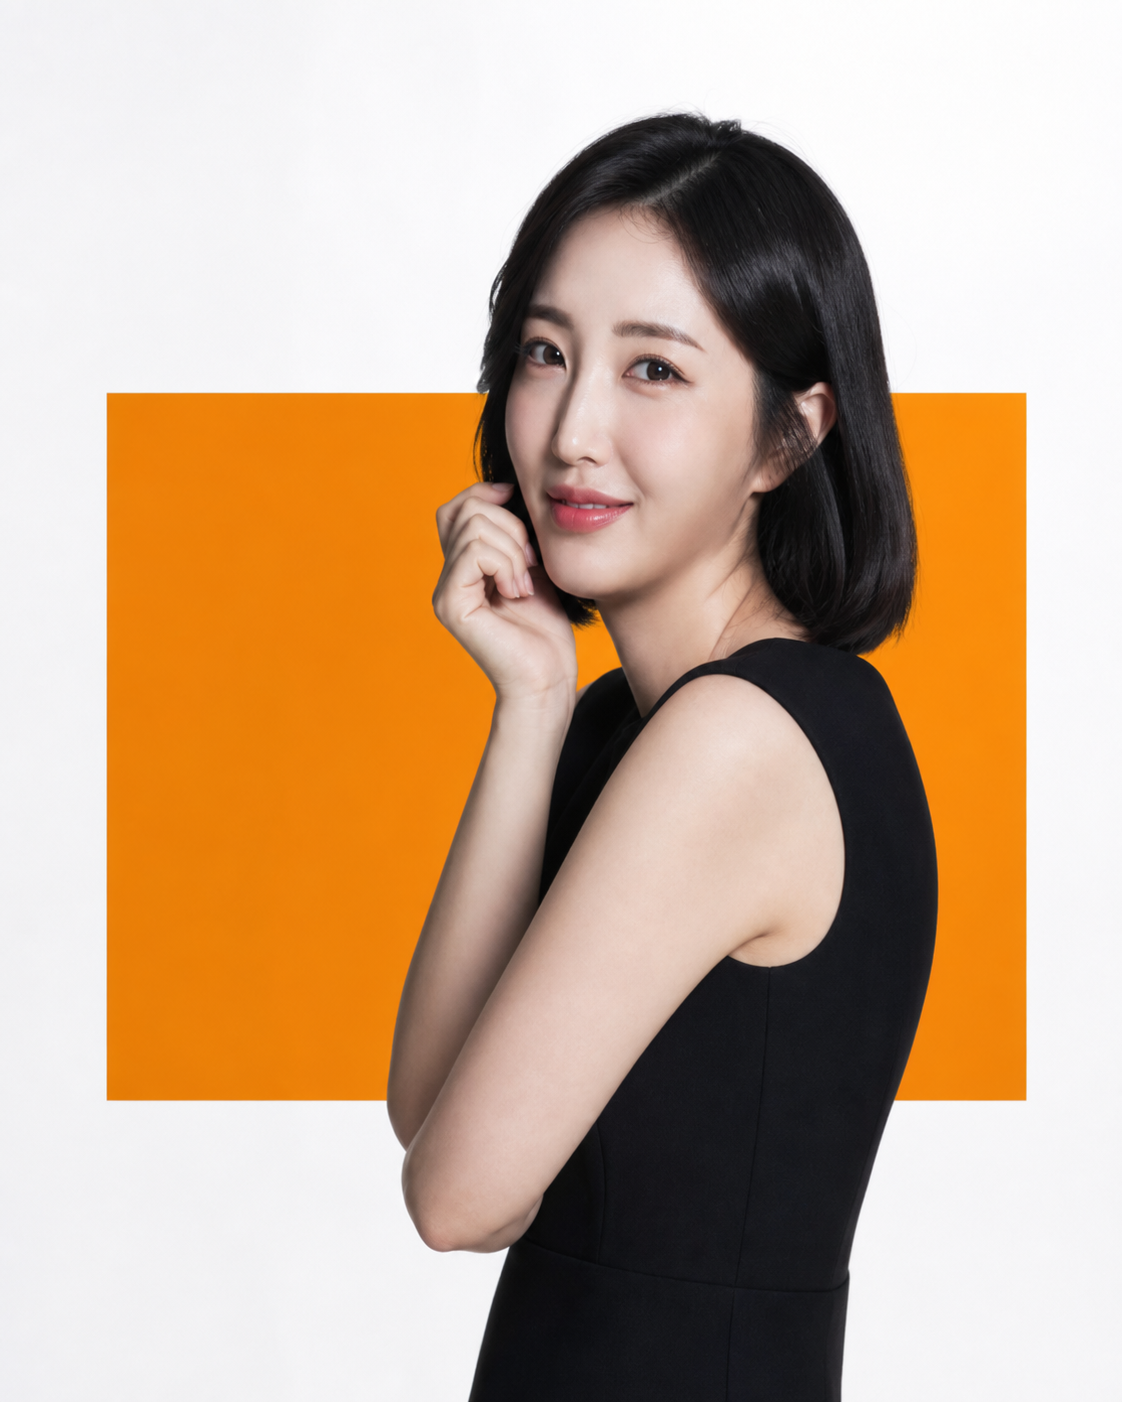
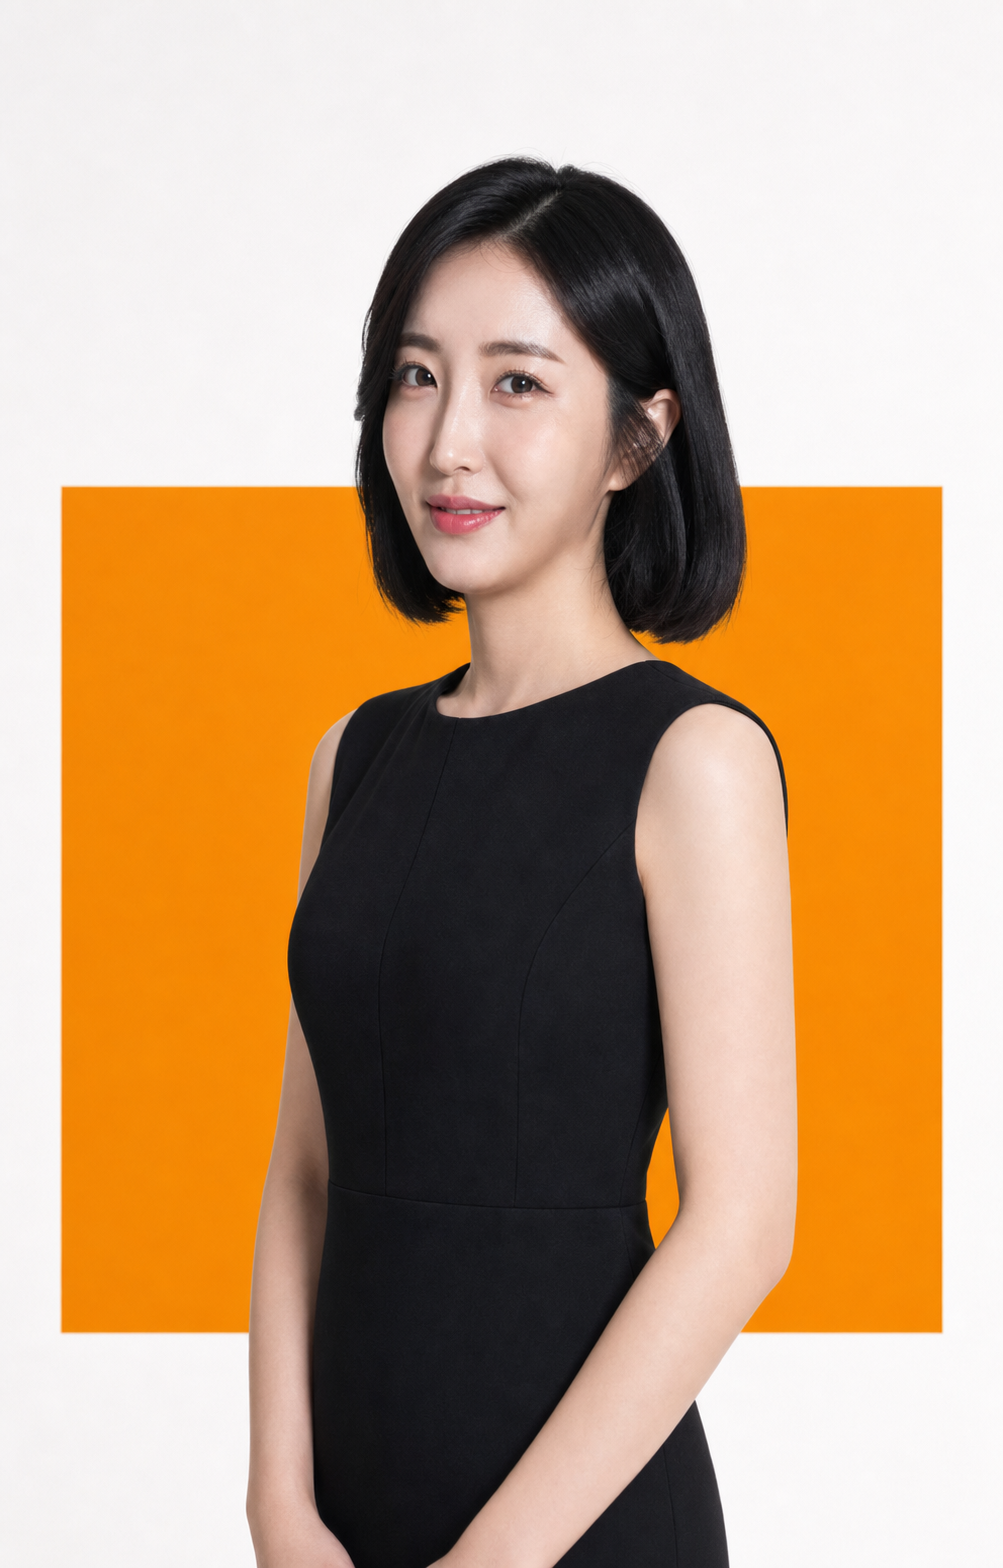
Improve instructor photo framing

diff --git a/src/App.jsx b/src/App.jsx
@@ -481,11 +481,11 @@ export default function App() {
 
           <div className="mt-10 grid gap-7 lg:grid-cols-2">
             <div className="rounded-[2rem] border border-slate-100 bg-[#fbfdff] p-7 shadow-xl shadow-slate-100 sm:p-9">
-              <div className="mb-7 h-72 overflow-hidden rounded-3xl bg-white shadow-lg shadow-slate-100">
+              <div className="mb-7 h-80 overflow-hidden rounded-3xl bg-gradient-to-br from-white via-sky-50 to-amber-50 shadow-lg shadow-slate-100 sm:h-96 lg:h-[26rem]">
                 <img
                   src="/instructor-moon.png"
                   alt="문정은 강사"
-                  className="h-full w-full object-cover object-top"
+                  className="h-full w-full object-contain object-bottom"
                 />
               </div>
               <div className="flex flex-col justify-between gap-5 md:flex-row md:items-end">
@@ -544,11 +544,11 @@ export default function App() {
             </div>
 
             <div className="rounded-[2rem] border border-slate-100 bg-white p-7 shadow-xl shadow-slate-100 sm:p-9">
-              <div className="mb-7 h-72 overflow-hidden rounded-3xl bg-[#fbfdff] shadow-lg shadow-slate-100">
+              <div className="mb-7 h-80 overflow-hidden rounded-3xl bg-gradient-to-br from-white via-sky-50 to-amber-50 shadow-lg shadow-slate-100 sm:h-96 lg:h-[26rem]">
                 <img
                   src="/instructor-cho.png"
                   alt="조은준 강사"
-                  className="h-full w-full object-cover object-top"
+                  className="h-full w-full object-contain object-bottom"
                 />
               </div>
               <div className="flex flex-col justify-between gap-5 md:flex-row md:items-end">
@@ -607,11 +607,11 @@ export default function App() {
             </div>
 
             <div className="rounded-[2rem] border border-slate-100 bg-[#fbfdff] p-7 shadow-xl shadow-slate-100 sm:p-9">
-              <div className="mb-7 h-72 overflow-hidden rounded-3xl bg-white shadow-lg shadow-slate-100">
+              <div className="mb-7 h-80 overflow-hidden rounded-3xl bg-gradient-to-br from-white via-sky-50 to-amber-50 shadow-lg shadow-slate-100 sm:h-96 lg:h-[26rem]">
                 <img
                   src="/instructor-lee.png"
                   alt="이채범 강사"
-                  className="h-full w-full object-cover object-top"
+                  className="h-full w-full object-contain object-bottom"
                 />
               </div>
               <div className="flex flex-col justify-between gap-5 md:flex-row md:items-end">
@@ -670,11 +670,11 @@ export default function App() {
             </div>
 
             <div className="rounded-[2rem] border border-slate-100 bg-white p-7 shadow-xl shadow-slate-100 sm:p-9">
-              <div className="mb-7 h-72 overflow-hidden rounded-3xl bg-[#fbfdff] shadow-lg shadow-slate-100">
+              <div className="mb-7 h-80 overflow-hidden rounded-3xl bg-gradient-to-br from-white via-sky-50 to-amber-50 shadow-lg shadow-slate-100 sm:h-96 lg:h-[26rem]">
                 <img
                   src="/instructor-huh.png"
                   alt="허유진 강사"
-                  className="h-full w-full object-cover object-top"
+                  className="h-full w-full object-contain object-bottom"
                 />
               </div>
               <div className="flex flex-col justify-between gap-5 md:flex-row md:items-end">